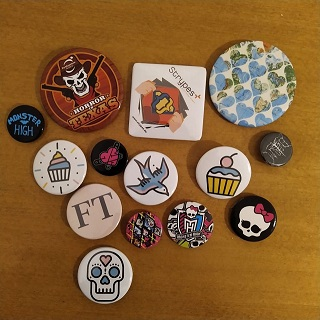
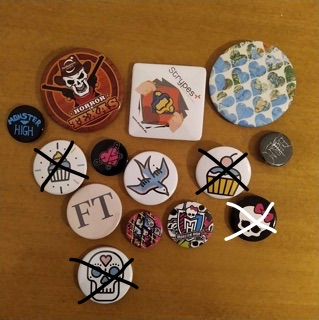
update: znachki

diff --git a/stuff.html b/stuff.html
@@ -33,7 +33,8 @@
 				<h2>Значки</h2>
 				<p>
 					Различни размери значки.
-					Предпочитам да ги дам заедно. 
+					Предпочитам да ги дам заедно.
+					Задрасканите са вече подарени. 
 				</p>
 				<a href="images/znachki.jpg" target="_blank"><img src="images/znachki-small.jpg" /></a>
 			</li>
